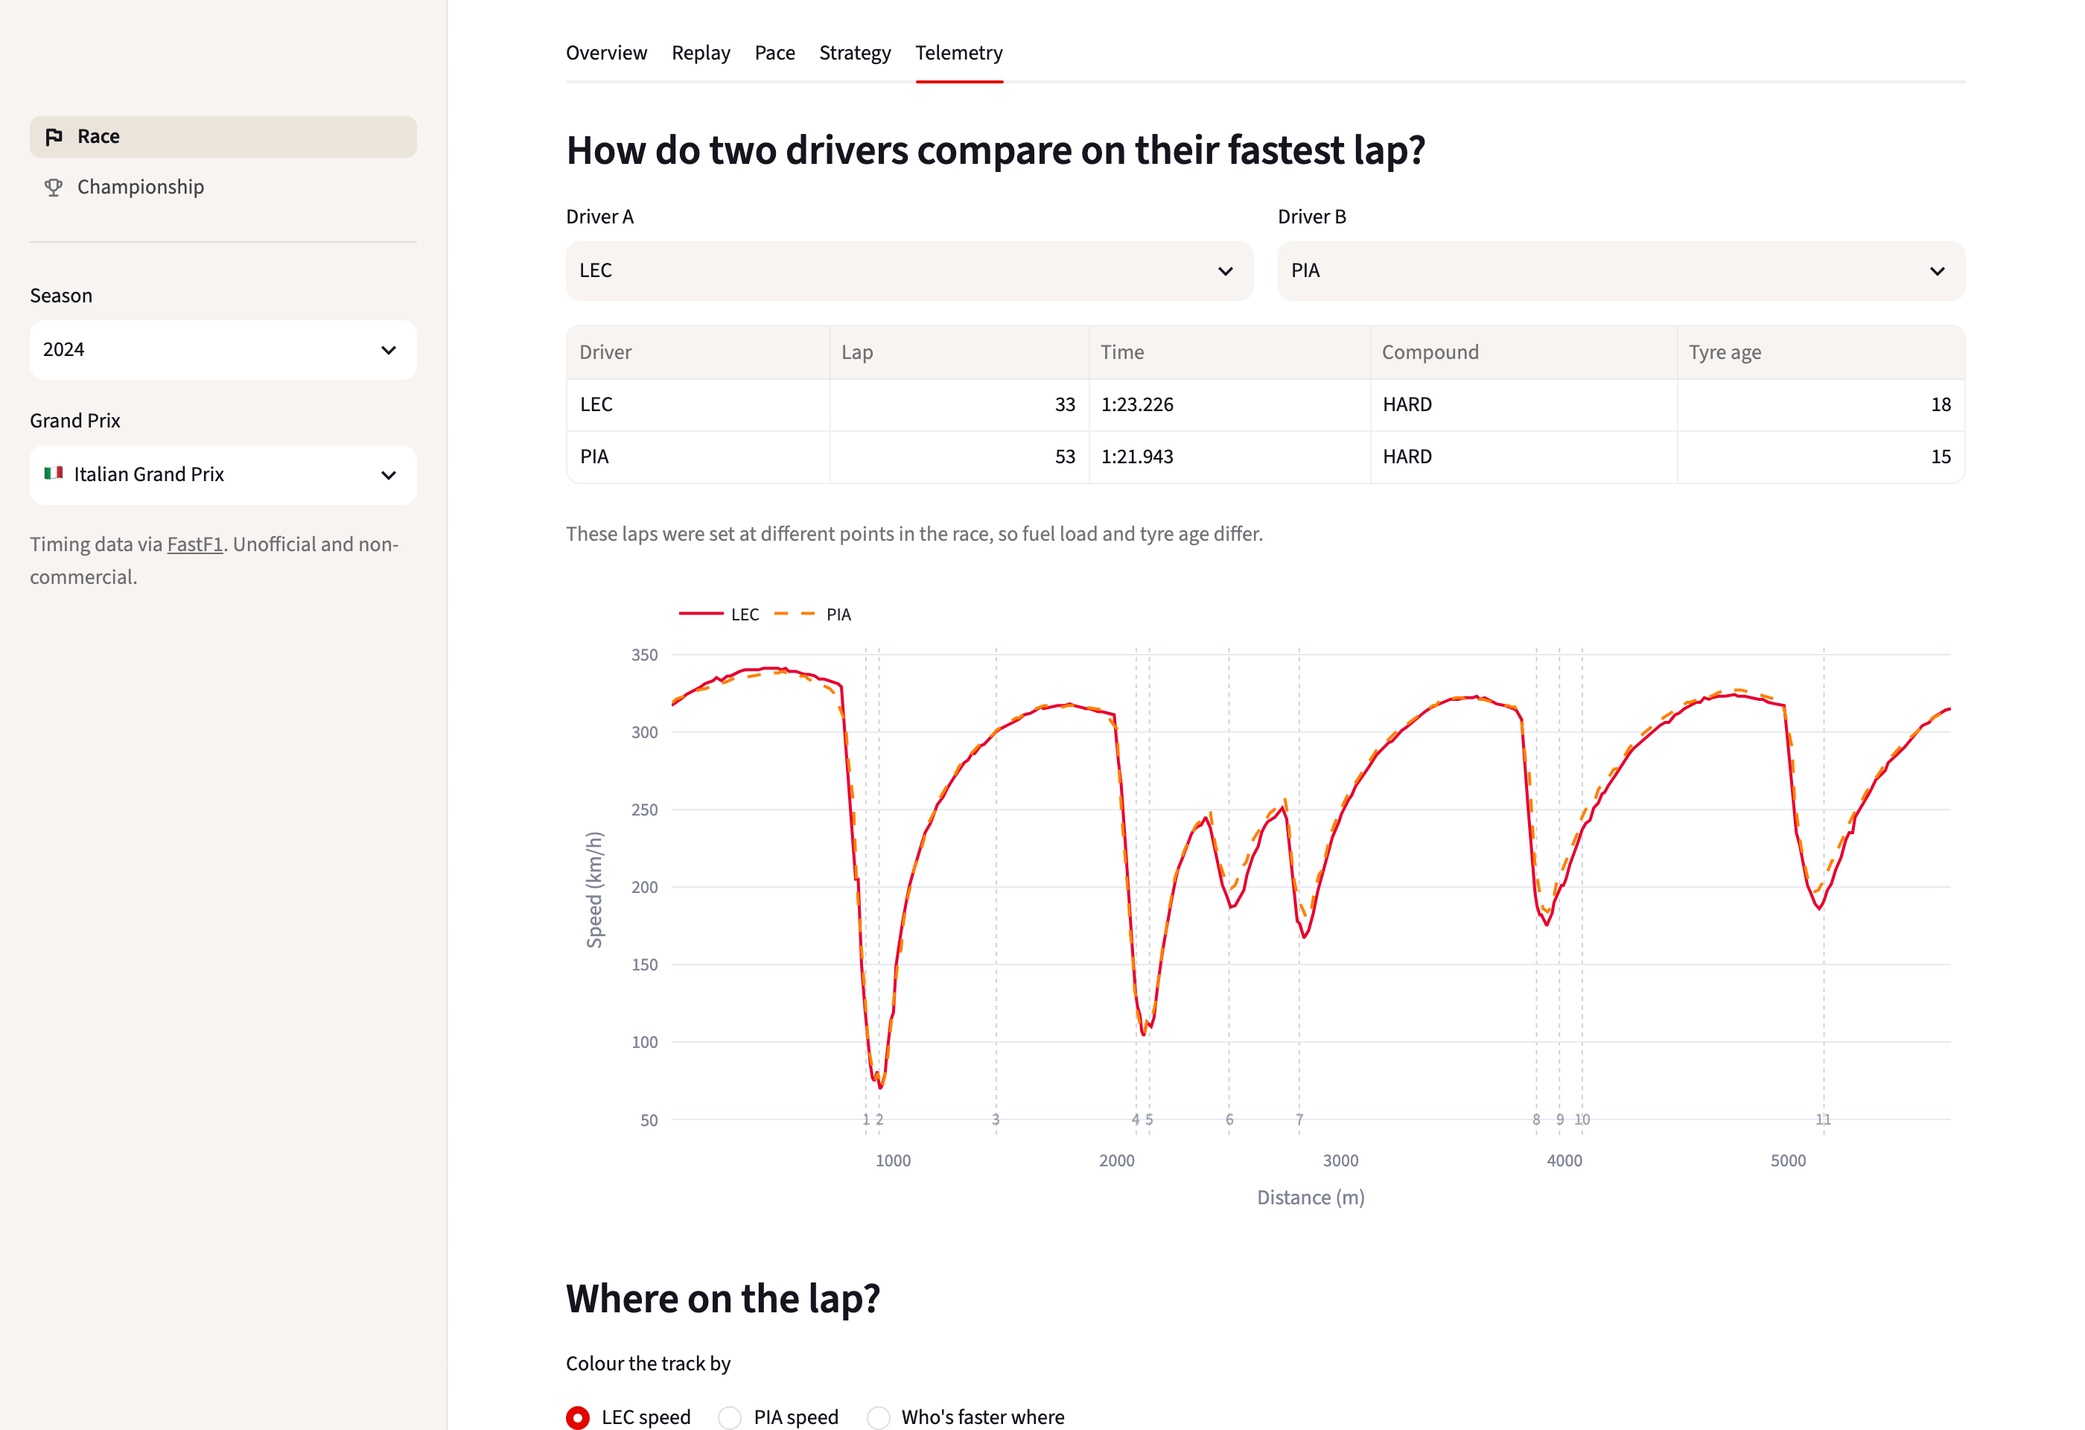
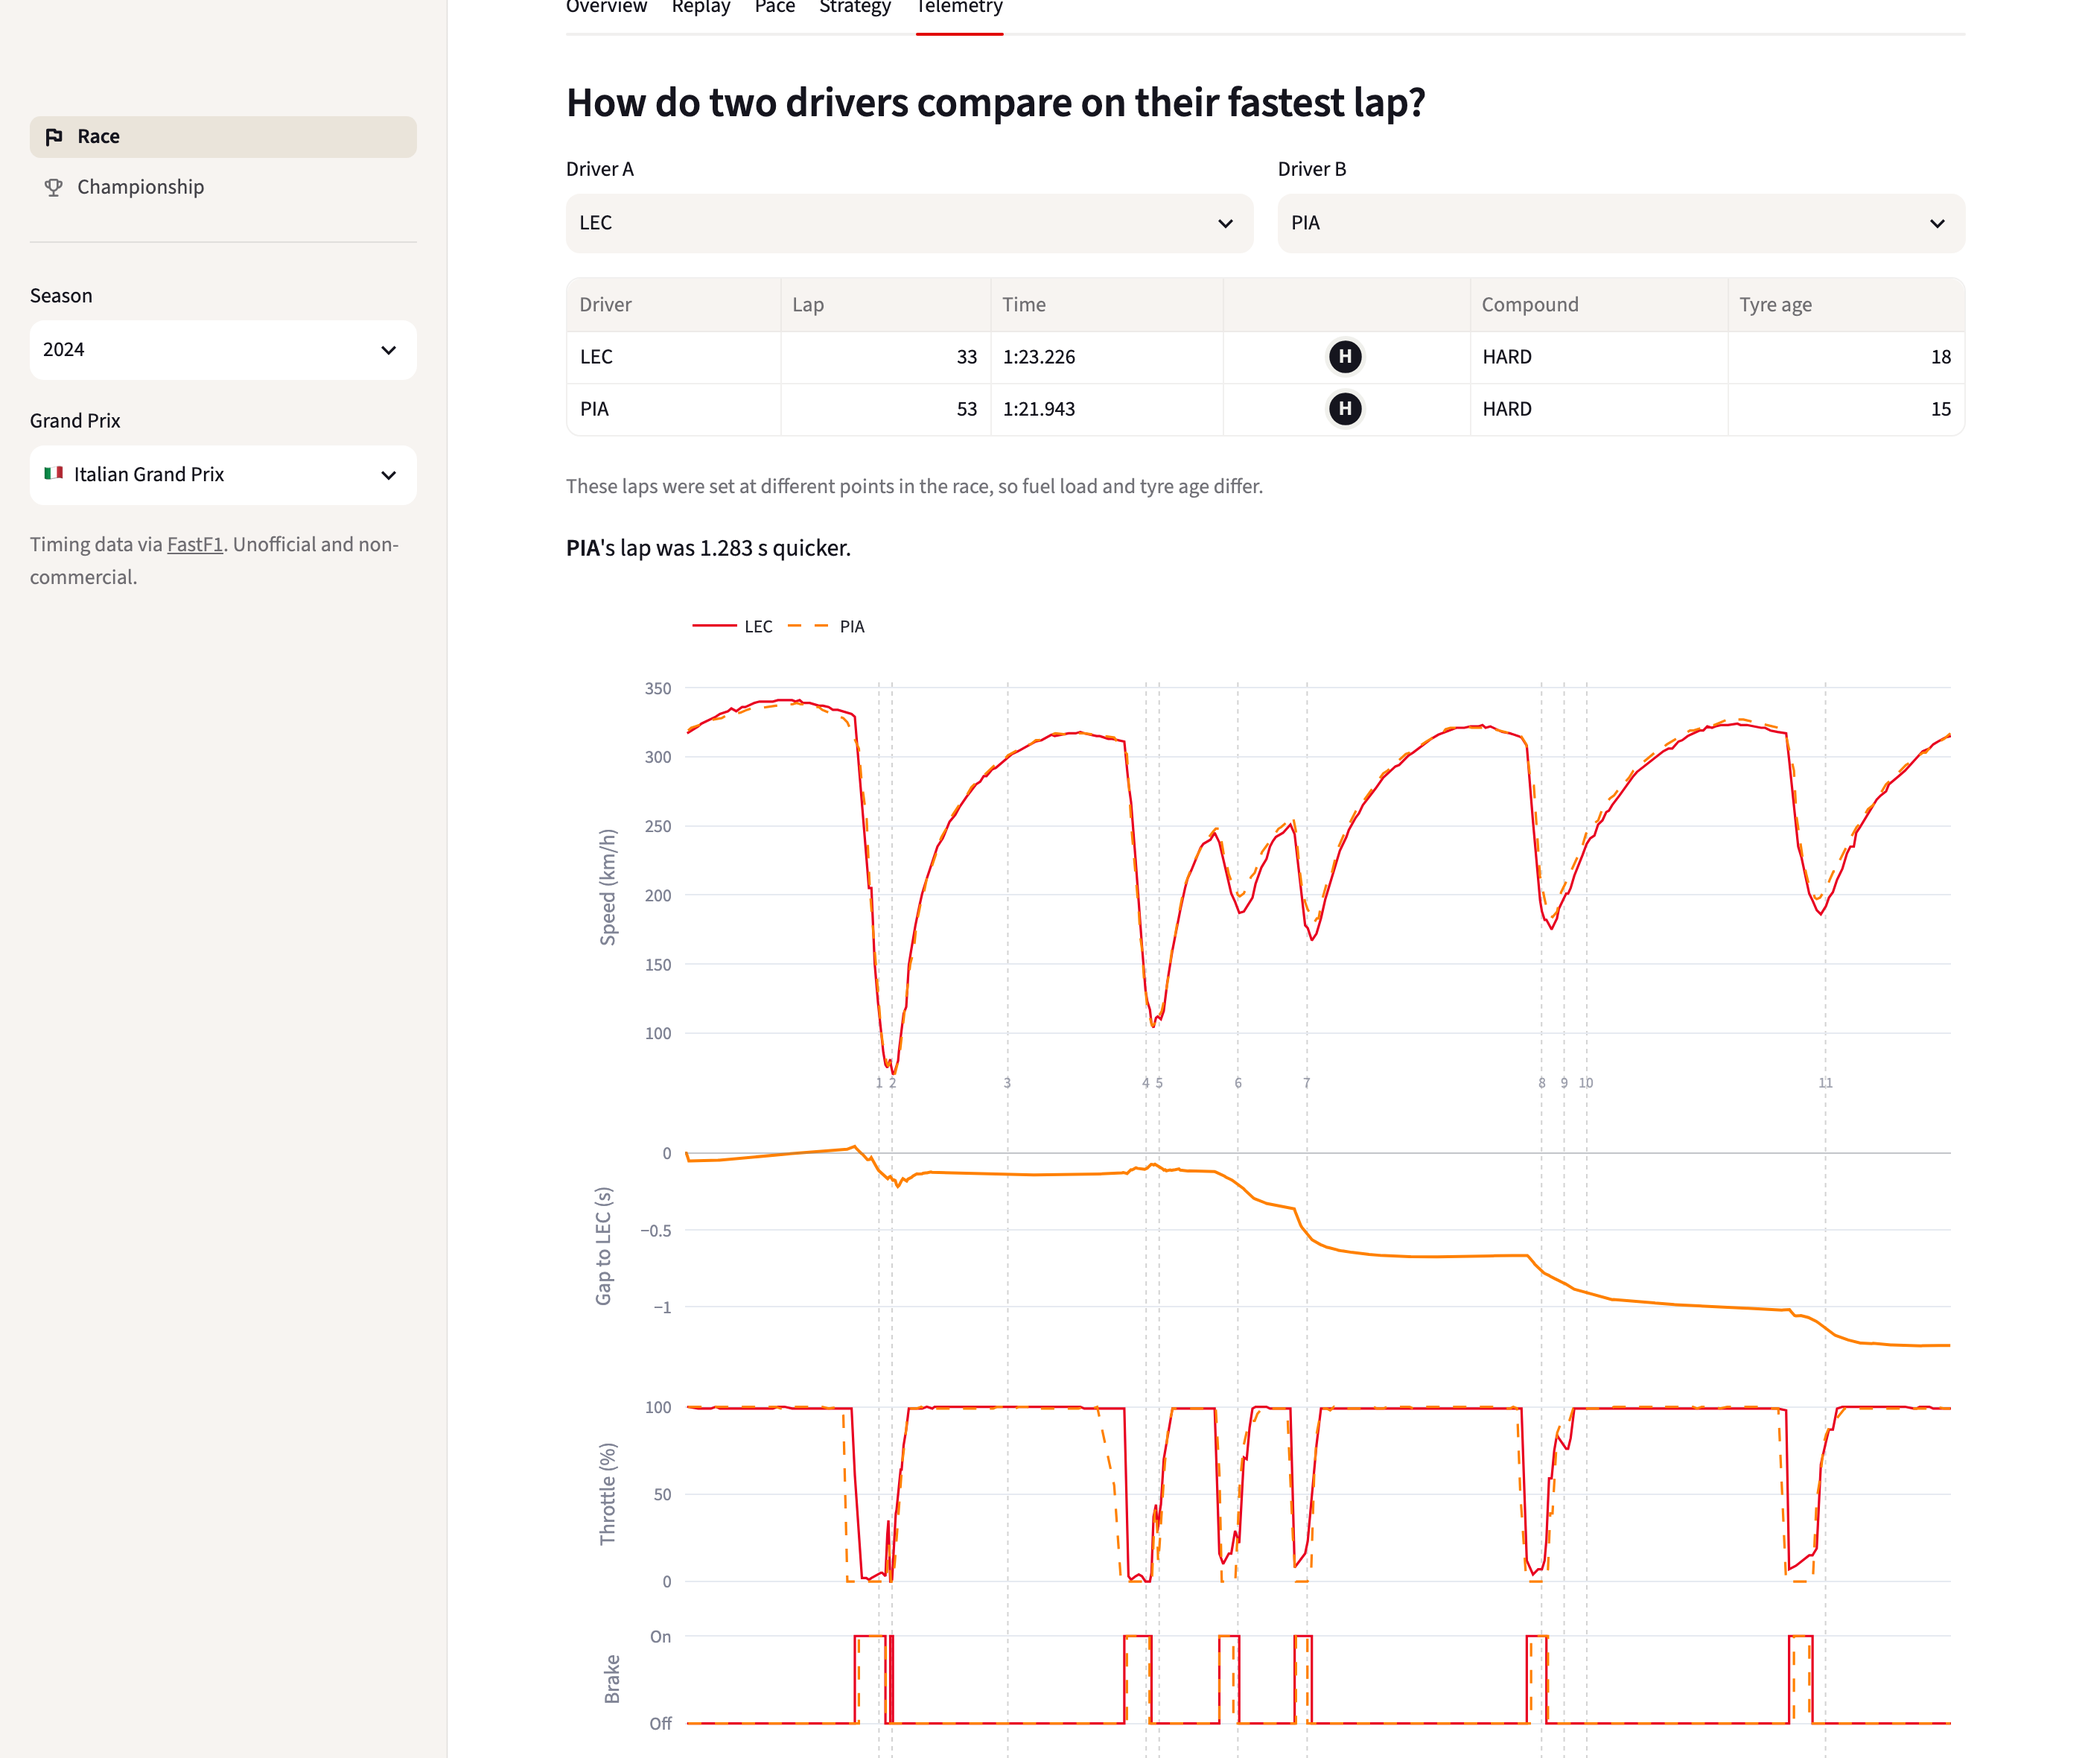
Update README and screenshots for the new sections

diff --git a/README.md b/README.md
@@ -12,11 +12,11 @@ Race analysis dashboard built on [FastF1](https://github.com/theOehrly/Fast-F1) 
 
 Every race opens with a summary: the podium, the fastest lap, the number of pit stops and any safety car, virtual safety car or red flag. The analysis is split into five tabs.
 
-- **Overview.** Every driver's position lap by lap, with selected drivers highlighted, plus who led and for how many laps.
+- **Overview.** Every driver's position lap by lap, with selected drivers highlighted, plus who led and for how many laps. The gap to the leader through the race, with safety car laps shaded. Track and air temperature and any rain. Race control's decisions, from penalties and investigations to lap times deleted for track limits. Team radio clips, which play in the page.
 - **Replay.** Every car on a map of the circuit through the whole race, with the running order alongside. Play it or drag the slider lap by lap.
-- **Pace.** Lap times for any set of drivers, optionally limited to representative laps (no pit in/out laps, no laps under safety car or flags, no laps FastF1 marks as inaccurate) and fuel-corrected. Each team's lap time spread ordered by median pace, and each driver's lap time distribution coloured by tyre compound.
-- **Strategy.** Every driver's stints, coloured by compound and ordered by finishing position, and the degradation rate of each stint from a linear fit of fuel-corrected lap time against tyre age, summarised by compound. A machine learning model trained on every other race since 2019 predicts how much time each compound should lose at that circuit, shown against the race's actual laps.
-- **Telemetry.** Speed against distance for two drivers' fastest laps, with corner markers, and the same laps on a track map coloured by speed or by who was quicker in each mini-sector.
+- **Pace.** Lap times for any set of drivers, optionally limited to representative laps (no pit in/out laps, no laps under safety car or flags, no laps FastF1 marks as inaccurate) and fuel-corrected. Each team's lap time spread ordered by median pace, and each driver's lap time distribution coloured by tyre compound. The quickest driver in each sector and every driver's theoretical best lap, and top speed against corner speed, which shows who ran a low-drag setup and who ran more downforce.
+- **Strategy.** Every driver's stints, coloured by compound and ordered by finishing position. Every pit stop's time in the pit lane by team, how much a stop cost, and which undercuts worked. The degradation rate of each stint from a linear fit of fuel-corrected lap time against tyre age, summarised by compound. A machine learning model trained on every other race since 2019 predicts how much time each compound should lose at that circuit, shown against the race's actual laps. A strategy simulator uses it to rank every one- and two-stop plan and compares the fastest with the winner's strategy.
+- **Telemetry.** Two drivers' fastest laps channel by channel: speed, the gap between them, throttle, brake, gear, RPM and DRS against distance, with corner markers. Corner by corner minimum speeds and braking points, and the same laps on a track map coloured by speed, by gear or by who was quicker in each mini-sector.
 
 **Championship**
 
@@ -31,13 +31,19 @@ Every view has its own link, so a race, a tab or a point in a championship can b
   <img alt="Race overview" src="docs/overview.png">
 </picture>
 
-| Pace | Team pace |
+| Telemetry | Strategy simulator |
 | --- | --- |
+| ![Telemetry](docs/telemetry.png) | ![Strategy simulator](docs/simulator.png) |
+| **Gap to the leader** | **Pit stops and undercuts** |
+| ![Gap to the leader](docs/gap.png) | ![Pit stops and undercuts](docs/pit-stops.png) |
+| **Pace** | **Team pace** |
 | ![Pace](docs/pace.png) | ![Team pace](docs/team-pace.png) |
 | **Strategy** | **Tyre model** |
 | ![Strategy](docs/strategy.png) | ![Tyre model](docs/tyre-model.png) |
-| **Telemetry** | **Championship** |
-| ![Telemetry](docs/telemetry.png) | ![Championship](docs/championship.png) |
+| **Sectors** | **Race control** |
+| ![Sectors](docs/sectors.png) | ![Race control](docs/race-control.png) |
+| **Championship** | |
+| ![Championship](docs/championship.png) | |
 
 ## Running locally
 
@@ -52,7 +58,7 @@ streamlit run app.py
 
 ## Race data
 
-Every race from 2018 to the latest 2026 round ships with the app in `data/` (about 24 MB), as compact Parquet files with the lap table, each driver's fastest-lap speed trace and the track outline. The one exception is the 2018 Italian Grand Prix, whose tyre data FastF1 can't process. Each season also has its race and sprint results and its calendar. The live timing service rejects requests from many hosting providers, Streamlit Community Cloud included, so the deployed app reads only this bundle.
+Every race from 2018 to the latest 2026 round ships with the app in `data/` (about 40 MB), as compact Parquet files: the lap table with sector times and speed traps, each driver's fastest-lap telemetry, the track outline, the weather, race control messages and the list of team radio clips. The one exception is the 2018 Italian Grand Prix, whose tyre data FastF1 can't process. Each season also has its race and sprint results and its calendar. The radio audio itself isn't bundled; the browser streams it from the official timing service when a clip is played. The live timing service rejects requests from many hosting providers, Streamlit Community Cloud included, so the deployed app reads only this bundle.
 
 When the live timing service is reachable, as it usually is on a home connection, the app also downloads races that aren't bundled. The first download of a race takes about a minute and is cached in `cache/`.
 
@@ -68,9 +74,10 @@ It defaults to the current season. Other forms:
 ```bash
 python -m src.sync 2023 --event Monza --event Silverstone --force
 python -m src.sync 2026 --results-only
+python -m src.sync 2022 --upgrade --skip-model
 ```
 
-Saved races are skipped unless `--force` is passed, and `--results-only` updates the championship without downloading races. The sync has to run on a connection the live timing service accepts; it rejects GitHub's servers as well as Streamlit's, so it can't run as a scheduled workflow. FastF1 allows 500 requests an hour, roughly 20 races; when a limit is reached the command stops and can be run again later to continue. Set `FORMULA_ANALYST_OFFLINE=1` to run the app the way it runs when deployed, with bundled races only.
+Saved races are skipped unless `--force` is passed, and `--results-only` updates the championship without downloading races. `--upgrade` downloads saved races again when they were saved in an older format, so they pick up data added since, and `--skip-model` leaves the tyre model as it is. The sync has to run on a connection the live timing service accepts; it rejects GitHub's servers as well as Streamlit's, so it can't run as a scheduled workflow. FastF1 allows 500 requests an hour, roughly 15 races; when a limit is reached the command stops and can be run again later to continue. Set `FORMULA_ANALYST_OFFLINE=1` to run the app the way it runs when deployed, with bundled races only.
 
 ## Development
 
@@ -86,12 +93,21 @@ The last command retrains the tyre model on the bundled races and writes its cur
 
 ```
 app.py                  page navigation
-views/race.py           race page
+views/race.py           race page: sidebar, header and tabs
+views/*_tab.py          one module per race tab
 views/championship.py   championship page
 views/data.py           cached data loading for both pages
 views/theme.py          colours and styles shared by the pages
 views/links.py          shareable links from URL parameters
-src/analysis.py         race analysis and charts
+views/state.py          keeps widget values when switching tabs
+views/tyres.py          tyre compound badges
+views/text.py           small helpers for the generated sentences
+src/analysis.py         positions, pace, gaps, replay and the other race charts
+src/charts.py           chart styling shared by every figure
+src/telemetry.py        telemetry channels, lap delta, corner speeds and gear map
+src/strategy.py         pit stops, undercuts and the strategy simulator
+src/sectors.py          sector times, theoretical best laps and speed traps
+src/conditions.py       weather, race control messages and team radio
 src/championship.py     standings, title maths and championship charts
 src/races.py            loading races from FastF1 or the bundle, saving bundles
 src/seasons.py          loading and saving season results
@@ -110,8 +126,16 @@ Everything in `src/` works on plain pandas DataFrames and has no Streamlit depen
 - **Fuel correction** subtracts `fuel_effect × laps remaining` from each lap time, normalising every lap to an empty tank. The default is 0.055 s per lap of fuel and can be changed in the app.
 - **Degradation** is the slope of a least-squares line through fuel-corrected lap time against tyre age, fitted per stint. Stints shorter than the configurable minimum (8 laps by default) are skipped.
 - A straight line is a simplification: tyre warm-up at the start of a stint and the drop-off at the end are averaged into one number.
-- **Tyre model.** For every dry stint from 2019 onwards, when the compounds were named soft, medium and hard, each representative lap's fuel-corrected time is compared with the median of the stint's first three laps. That gives the time lost since the stint began, which includes tyre wear and the track rubbering in. A gradient-boosted tree model (scikit-learn's `HistGradientBoostingRegressor`) predicts it from the compound, tyre age, the age of the set when the stint began, the circuit and the season. It is trained on 126,491 laps from 6,458 stints in 161 races. Cross-validated in five folds grouped by race, so every race is predicted by a model that never saw it, it is off by 0.58 s a lap on average, against 0.63 s for a straight line per compound and 0.75 s for assuming no wear. Lap-to-lap variation from traffic and driving limits how close any model can get. The curves shown for each race come from the fold that held it out.
+- **Tyre model.** For every dry stint from 2019 onwards, when the compounds were named soft, medium and hard, each representative lap's fuel-corrected time is compared with the median of the stint's first three laps. That gives the time lost since the stint began, which includes tyre wear and the track rubbering in. A gradient-boosted tree model (scikit-learn's `HistGradientBoostingRegressor`) predicts it from the compound, tyre age, the age of the set when the stint began, the circuit, the season and the race's median track temperature. It is trained on 126,491 laps from 6,458 stints in 161 races. Cross-validated in five folds grouped by race, so every race is predicted by a model that never saw it, it is off by 0.58 s a lap on average, against 0.63 s for a straight line per compound and 0.75 s for assuming no wear. Lap-to-lap variation from traffic and driving limits how close any model can get. Track temperature was a later addition and barely matters: it brought the error from 0.584 s to 0.581 s, lower on every random split tested, but it helped only about half of the races individually, so the effect is small. The curves shown for each race come from the fold that held it out.
 - **Positions** are the order in which drivers completed each lap. They match FastF1's own position data.
+- **Gap to the leader** is the time between each driver and the leader crossing the timing line at the end of a lap. Safety car and virtual safety car laps are the leader's laps that ran under them.
+- **Pit stops.** Time in the pit lane runs from the pit entry line on the in-lap to the pit exit line on the out-lap, so it includes the drive through the lane and any penalty served in the box. The cost of a stop is the in-lap plus the out-lap minus two of the driver's typical green-flag laps, and the race's pit loss is the median of those.
+- **Undercuts.** A driver within 3 s of the car ahead pits first, and that car pits within the next 5 laps. The undercut worked if the driver was ahead once both had stopped.
+- **Strategy simulator.** Each compound's fresh-tyre pace comes from a least-squares fit of this race's representative laps on compound, tyre age per compound, driver and lap number, so a faster driver or a lighter car doesn't make a compound look quicker. Wear comes from the tyre model's curve for this race. Every plan with one or two stops and at least two dry compounds is timed, with stints of at least 5 laps and no longer than the model's curve reaches. Traffic, safety cars and tyre warm-up aren't modelled.
+- **Sectors.** A theoretical best adds up a driver's best first, second and third sectors from any accurate lap. Top speed is the highest speed trap reading of the race, and corner speed is the mean minimum speed through every corner on the driver's fastest lap.
+- **Corner by corner.** Each corner covers the track halfway to its neighbours. The minimum speed is the slowest point in that stretch, and the braking point is how far before the corner marker the driver last went on the brakes before the apex. Car data is sampled about four times a second, so short brake taps can be missed.
+- **Race control** messages are grouped by keyword into penalties, investigations, track limits, flags, safety car and DRS, and blue flags are left out.
+- **Weather** for each lap is the last reading from the circuit's weather station before the leader completed it.
 - **Pace comparison** uses representative laps within 107% of the fastest one, the same quick-lap threshold as FastF1.
 - **Mini-sectors** split the fastest lap into 25 equal distances. A driver's time through each one comes from integrating their speed trace.
 - **Race replay** positions come from each lap's start and end times. Within a lap, cars follow the speed profile of the winner's fastest lap, so they slow down in corners rather than moving at constant speed. The order shown is the order on track, before any penalties. Track outlines come from the MultiViewer circuit data that FastF1 uses; the 2020 Sakhir and 2026 Spanish Grand Prix have none.
